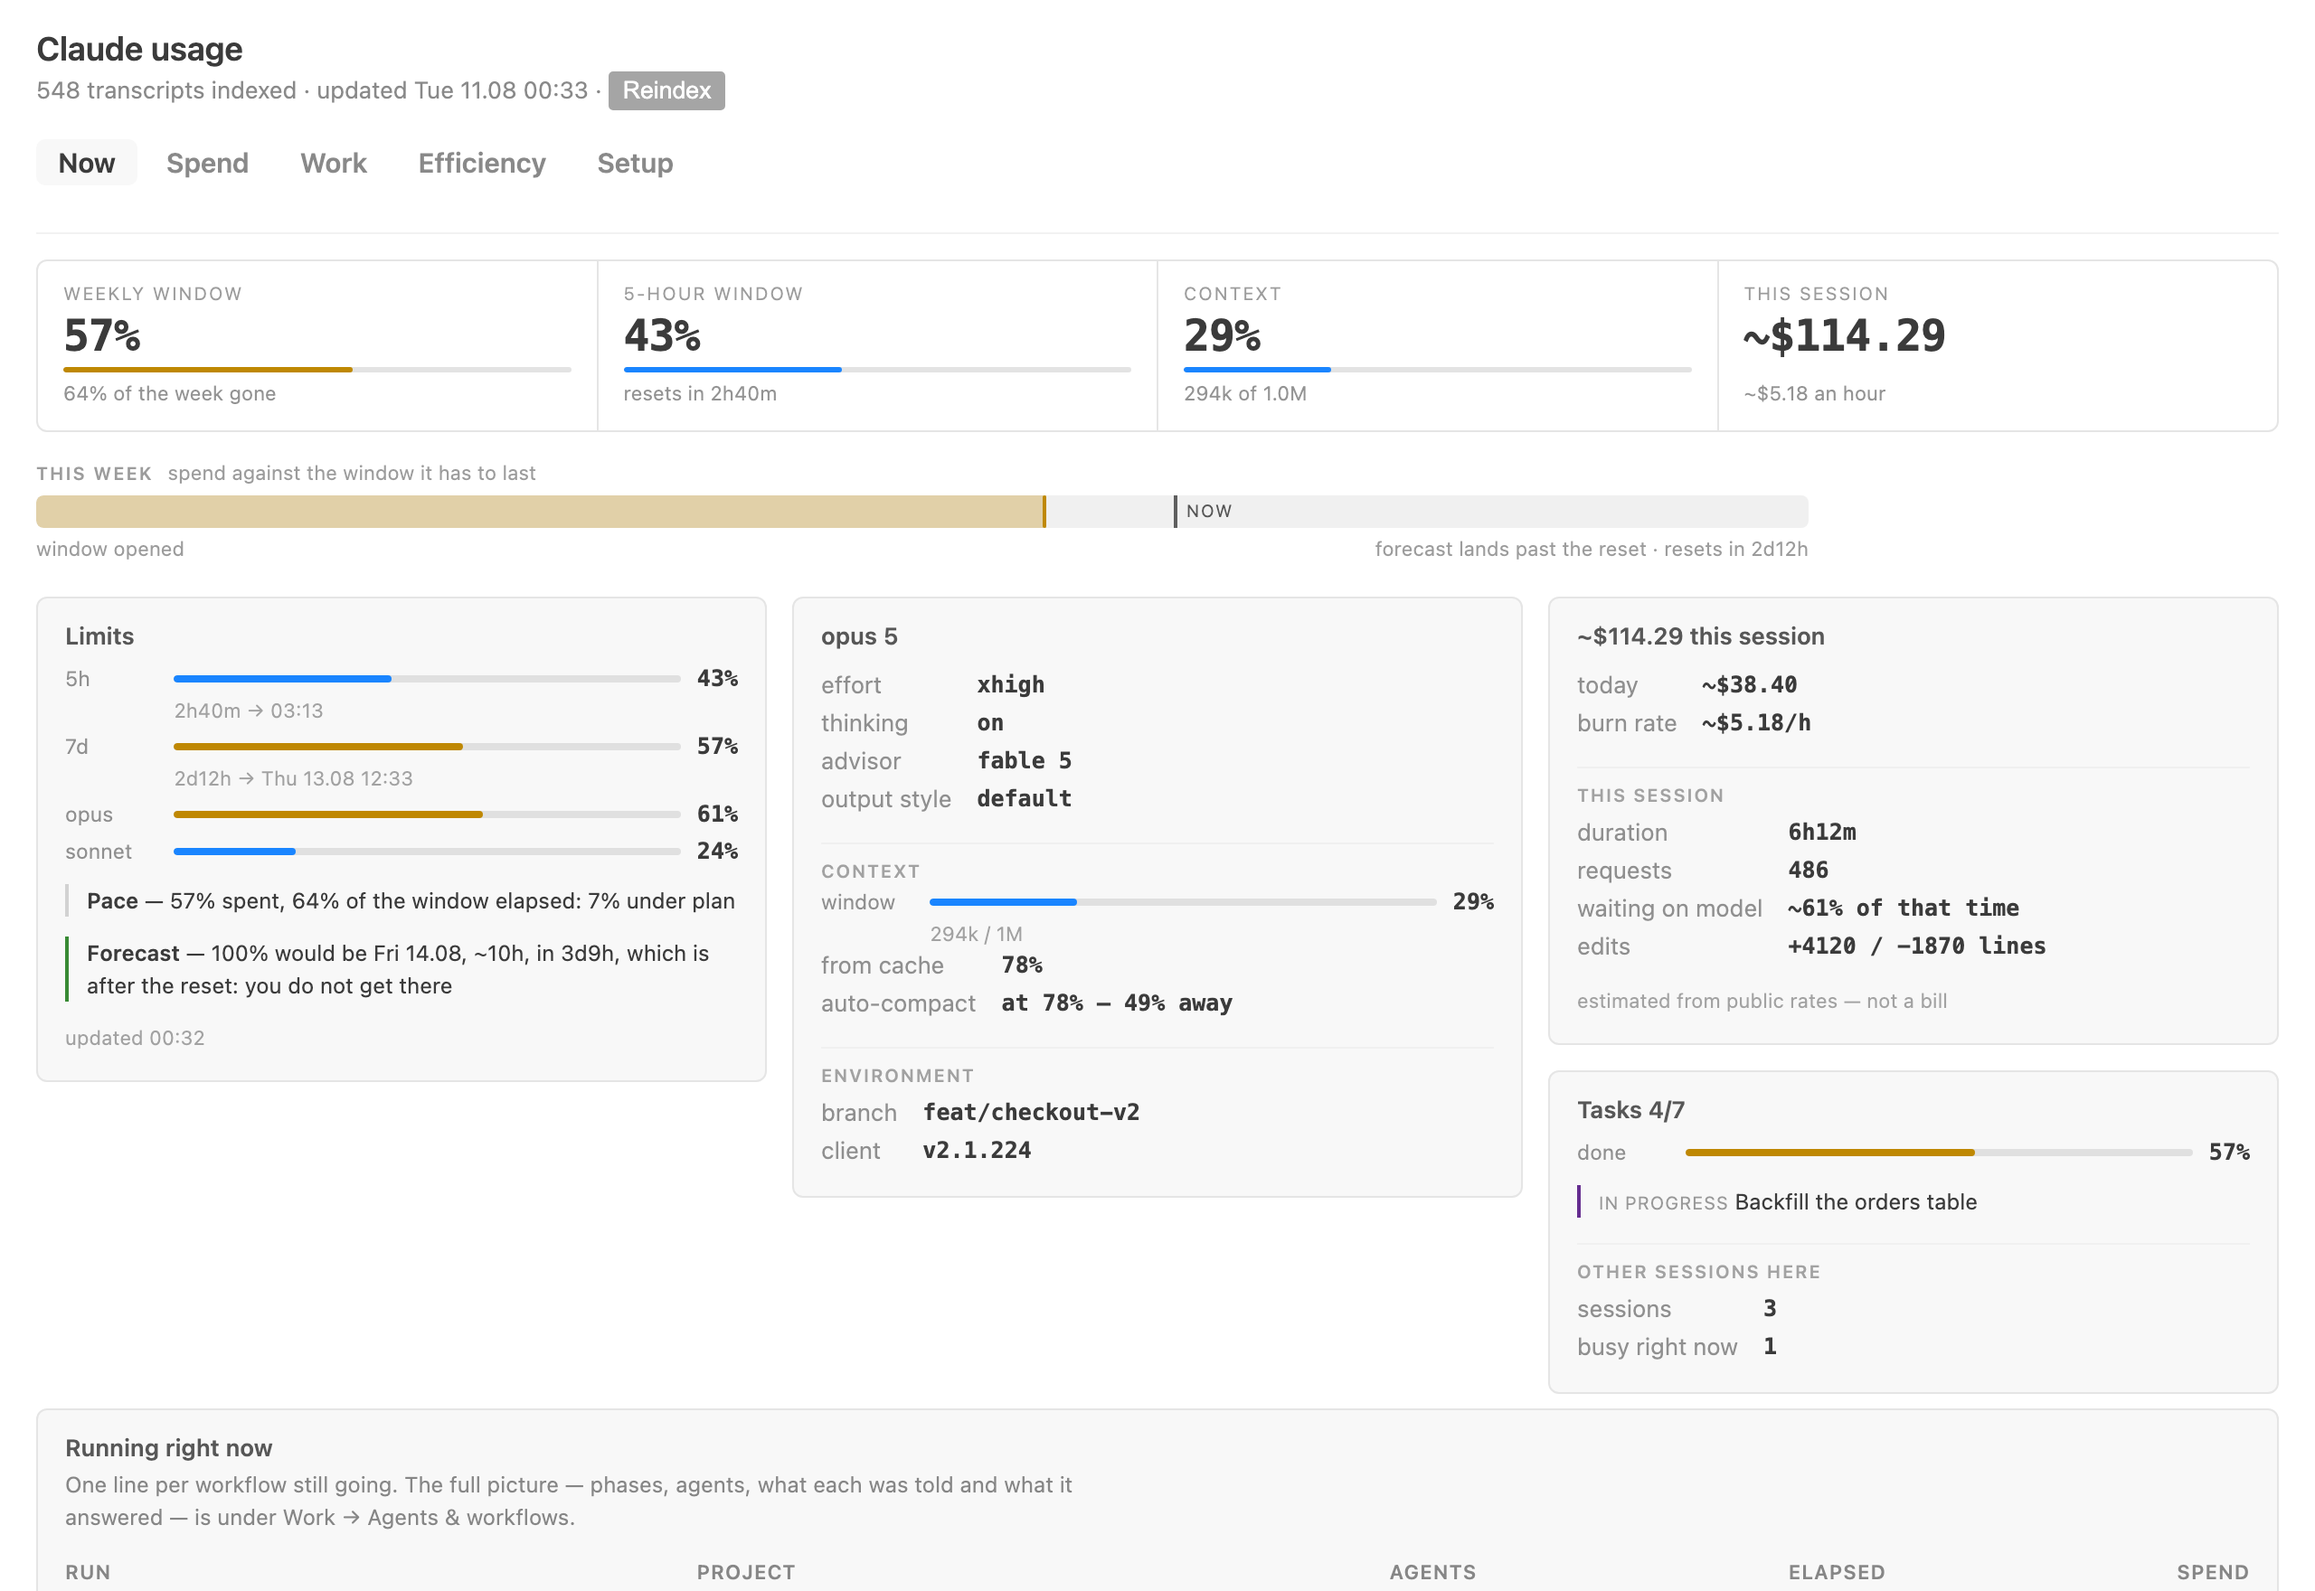
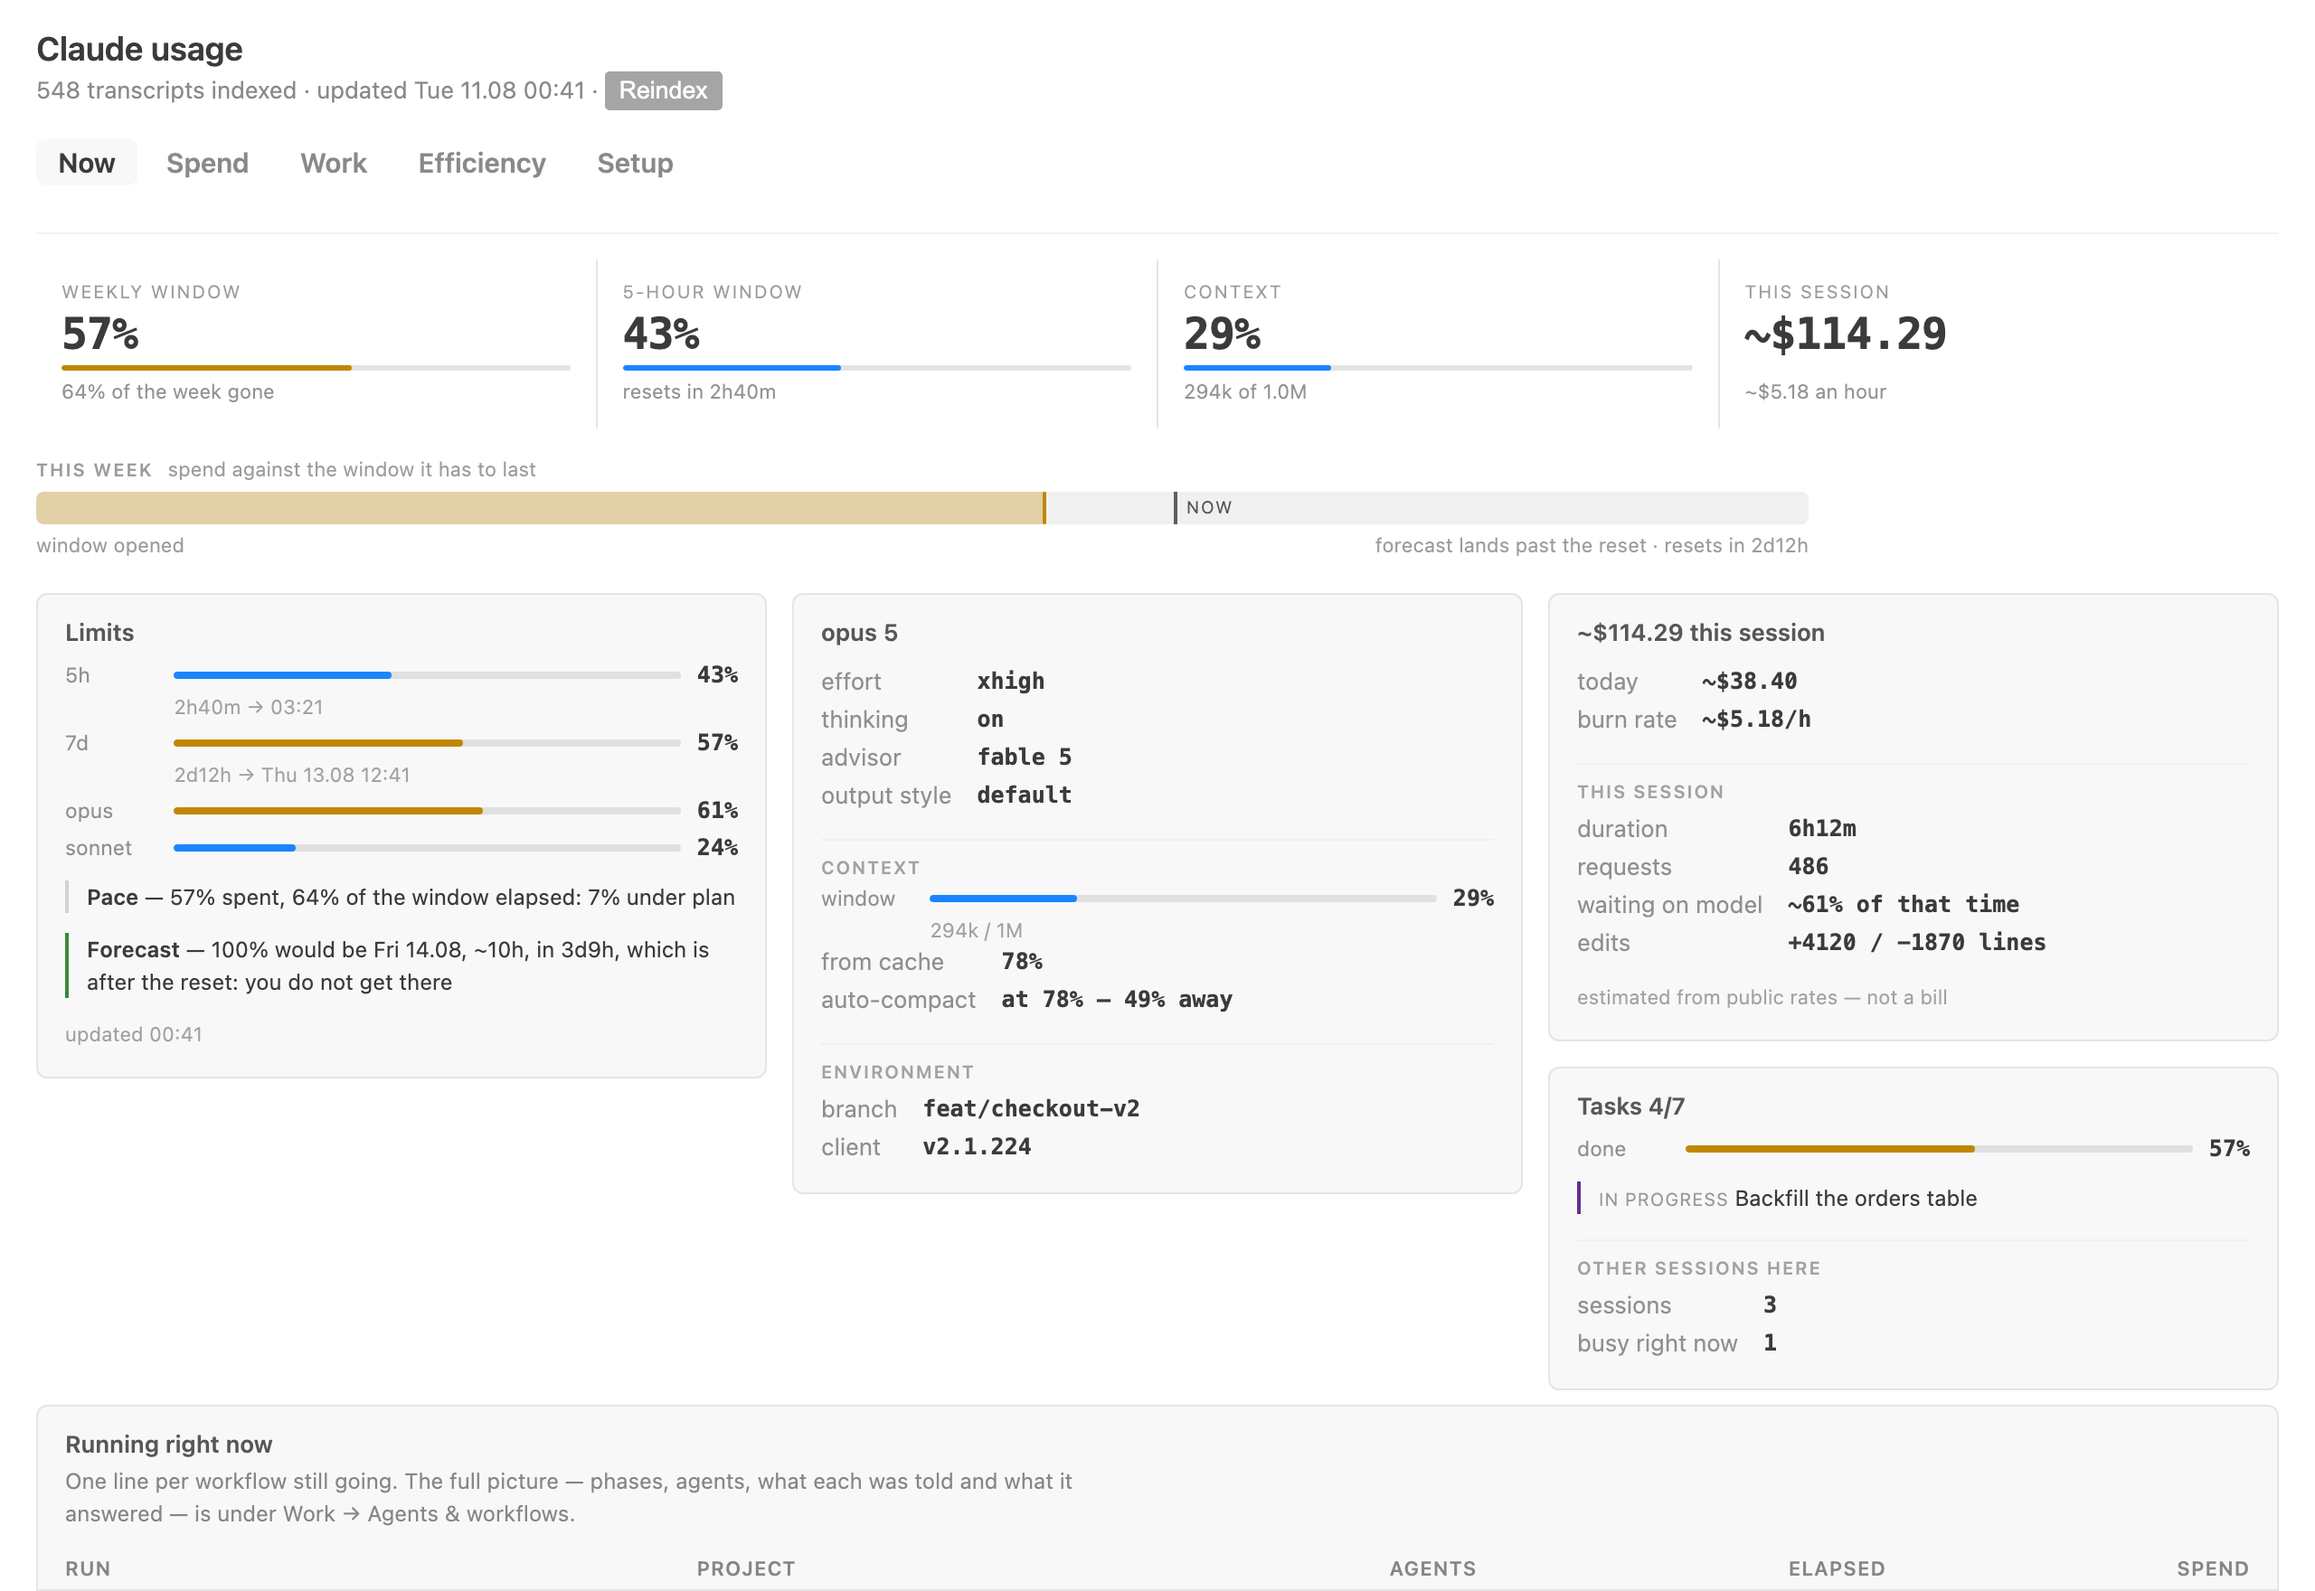
fix(tools): measure overflow with geometry, and re-shoot on the fixed charts
The probe compared documentElement.scrollWidth against clientWidth on a page
whose body carries overflow-x: hidden — a difference that is structurally zero,
so it answered "clean" for every width it was ever run at, including the ones
where content was visibly clipped. Content cut off by overflow: hidden does not
scroll and does not widen the document; it disappears, and only geometry sees
that. Every element is now measured against the panel it lives in and against
the window, and a scroll container is exempt because content inside one is still
reachable.

Proven by running it against a known-bad revision rather than by reading it: on
79883c5 it reports 92 findings at 910px and 40 at 800px, on the current tree it
is clean at 1500/1280/1000/910/800/700/620/520 — on both the synthetic index and
a real one.

The screenshots are re-shot on top of 63f823b, which gave the charts a y-axis,
the calendar a scale, and fixed a barList that drew 1% as a full bar whenever a
percentage series had a single row.

Claude-Session: https://claude.ai/code/session_01XjAraSXvKcVMWcGNwY1U5h

diff --git a/tools/preview.js b/tools/preview.js
@@ -159,21 +159,49 @@ for (const [sid, , tabs] of db.SECTIONS) {
     for (const [tab] of tabs) fs.writeFileSync(path.join(dir, `preview-${tab}.html`), wrap({ section: sid, tab }));
 }
 
-// The probe walks every tab and reports how far each one runs past the viewport.
-fs.writeFileSync(path.join(dir, 'overflow-probe.html'), wrap(null, `<script>
+// The probe walks every tab and reports what runs past its own panel or past the
+// window.
+//
+// The version this replaces compared `documentElement.scrollWidth` against
+// `clientWidth` — a difference that is structurally zero on a page whose body
+// carries `overflow-x: hidden`, so it reported "no overflow" on a page that was
+// visibly clipping content. Content cut off by `overflow: hidden` does not
+// scroll and does not widen the document; it simply disappears, which is why
+// nothing but geometry catches it. Every element is measured against the panel
+// it lives in, and the answer is written into the DOM so `--dump-dom` can read
+// it without a console.
+fs.writeFileSync(path.join(dir, 'overflow-probe.html'), wrap(null, `<pre id="probe-result"></pre><script>
 addEventListener('load', () => {
   const sections = [...document.querySelectorAll('nav.sections button')];
-  const tabs = [...document.querySelectorAll('nav.tabs button')];
   const out = [];
   for (const s of sections) {
     s.click();
-    for (const t of tabs.filter((b) => b.dataset.section === s.dataset.section)) {
+    const tabs = [...document.querySelectorAll('nav.tabs button')]
+      .filter((b) => b.dataset.section === s.dataset.section || !b.dataset.section);
+    for (const t of tabs) {
       t.click();
-      const doc = document.documentElement;
-      out.push(t.dataset.tab + ': ' + (doc.scrollWidth - doc.clientWidth));
+      const pane = document.querySelector('section.tab[data-tab="' + t.dataset.tab + '"]');
+      if (!pane || pane.hidden) continue;
+      for (const el of pane.querySelectorAll('*')) {
+        const r = el.getBoundingClientRect();
+        if (r.width === 0 || r.height === 0) continue;
+        const host = el.parentElement && el.parentElement.closest('.panel, .tab');
+        if (!host) continue;
+        const h = host.getBoundingClientRect();
+        // A scroll container is allowed to hold something wider than itself:
+        // that content is reachable. Everything else is simply lost.
+        const scrolls = getComputedStyle(host).overflowX !== 'visible';
+        const past = Math.max(scrolls ? 0 : r.right - h.right, r.right - innerWidth);
+        if (past > 1) {
+          out.push(t.dataset.tab + ' · ' + Math.round(past) + 'px · ' + el.tagName.toLowerCase()
+            + (el.className ? '.' + String(el.className).split(' ').join('.') : '')
+            + ' · ' + (el.textContent || '').trim().slice(0, 40).replace(/\\s+/g, ' '));
+        }
+      }
     }
   }
-  console.log('RESULT ' + JSON.stringify(out));
+  document.getElementById('probe-result').textContent =
+    'PROBE ' + innerWidth + 'px: ' + (out.length ? out.length + ' findings\\n' + out.join('\\n') : 'clean');
 });
 </script>`));
 
